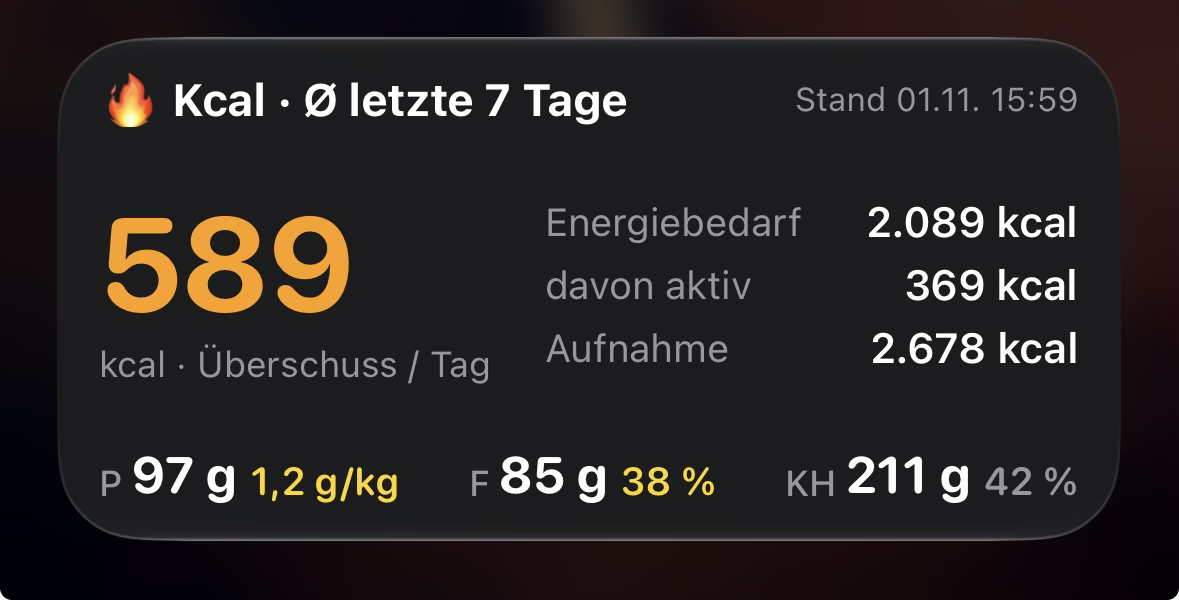
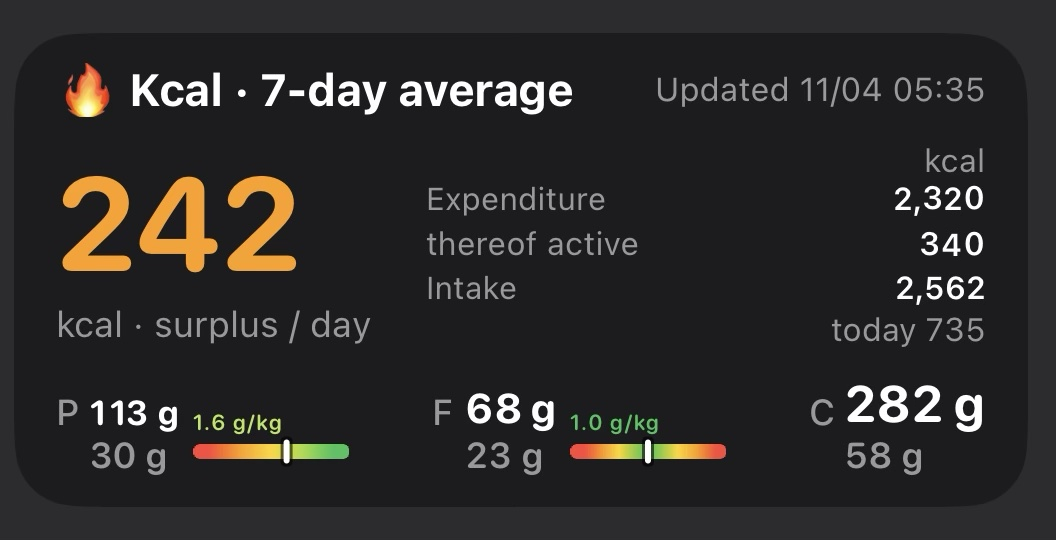
Rate fat in g/kg and add color scales
- Fat is rated in g per kg body weight instead of % of calories
- Small color scale with a marker below the protein and fat ratings
- Carbs share removed; "kcal" shown once above the right column
- Large widget: fat target as g/kg
- README and screenshot updated (example values)

Claude-Session: https://claude.ai/code/session_01He5uGvp4X4Twe2GPciLC5W

diff --git a/Kcal-Widget.js b/Kcal-Widget.js
@@ -3,7 +3,8 @@
 //
 // Shows the 7-day averages of calorie expenditure, calorie intake,
 // deficit/surplus and macronutrients from Apple Health, plus today's totals
-// (intake and macros) in gray.
+// (intake and macros) in gray. Protein and fat are rated in g per kg body
+// weight, each with a small color scale and a marker.
 //
 // Scriptable cannot access Apple Health, so an Apple Shortcut reads the data
 // and saves it as "kcal.json" in iCloud Drive/Scriptable. This script reads
@@ -33,7 +34,7 @@ const REFRESH_MIN = 15;           // requested widget update interval (iOS decid
 
 // ---------- Body weight ----------
 const WEIGHT_KG = null;           // fallback if the shortcut does not provide a weight, e.g. 80
-const TARGET_WEIGHT_KG = null;    // optional: base protein on target weight (useful with significant overweight)
+const TARGET_WEIGHT_KG = null;    // optional: base protein and fat on target weight (useful with significant overweight)
 
 // ---------- Rating levels (goal: lose fat, build muscle) ----------
 // Format: [upper limit (exclusive), color] – ascending
@@ -47,15 +48,22 @@ const TARGET_WEIGHT_KG = null;    // optional: base protein on target weight (us
 const LEVELS_PROTEIN = [
   [0.8, "red"], [1.2, "orange"], [1.6, "yellow"], [2.0, "lightGreen"], [Infinity, "darkGreen"],
 ];
-// Fat in % of calories eaten (reference range 20–35 %)
-//   < 15 red · 15–20 orange · 20–30 darkGreen · 30–35 lightGreen
-//   35–40 yellow · 40–45 orange · ≥ 45 red
+// Fat in g per kg body weight
+//   The lower limits are well founded (~0.5–0.6 g/kg minimum for hormones and
+//   fat-soluble vitamins). There is no fixed upper limit – too much fat mainly
+//   crowds out protein and carbs, so the upper levels are a rule of thumb.
+//   < 0.5 red · 0.5–0.6 orange · 0.6–0.8 yellow · 0.8–1.2 darkGreen
+//   1.2–1.4 yellow · 1.4–1.6 orange · ≥ 1.6 red
 const LEVELS_FAT = [
-  [15, "red"], [20, "orange"], [30, "darkGreen"], [35, "lightGreen"],
-  [40, "yellow"], [45, "orange"], [Infinity, "red"],
+  [0.5, "red"], [0.6, "orange"], [0.8, "yellow"], [1.2, "darkGreen"],
+  [1.4, "yellow"], [1.6, "orange"], [Infinity, "red"],
 ];
-// Carbs: not rated (they fill the remaining calories) → gray
+// Carbs: not rated (they fill the remaining calories)
 // Today's totals: not rated (a day in progress would almost always look "too low") → gray
+
+// Range of the color scales below the ratings (values outside sit at the edge)
+const SCALE_PROTEIN = { min: 0.4, max: 2.4, levels: LEVELS_PROTEIN };
+const SCALE_FAT = { min: 0.2, max: 1.8, levels: LEVELS_FAT };
 
 // ---------- Texts ----------
 const TEXTS = {
@@ -112,6 +120,10 @@ const C = {
   red: new Color("#ff453a"),
   green: new Color("#30d158"),
 };
+// Scale colors (images cannot switch between light and dark mode)
+const SCALE_COLORS = {
+  red: "#ff453a", orange: "#ff9f0a", yellow: "#ffd60a", lightGreen: "#a8dc3c", darkGreen: "#30c45a",
+};
 
 // ---------- Load data ----------
 // In the app (e.g. after tapping the widget) the file is fetched from iCloud;
@@ -141,6 +153,9 @@ function num(...keys) {
 }
 function fmt(n) {
   return n == null ? "–" : Math.round(n).toLocaleString(T.locale);
+}
+function fmt1(n) {
+  return n.toLocaleString(T.locale, { minimumFractionDigits: 1, maximumFractionDigits: 1 });
 }
 
 const d = {
@@ -176,39 +191,28 @@ for (const [k, keys] of Object.entries(TODAY_KEYS)) {
 }
 
 // ---------- Rate macros ----------
-function level(value, levels) {
-  for (const [limit, color] of levels) if (value < limit) return C[color];
-  return C.sub;
+function levelName(value, levels) {
+  for (const [limit, color] of levels) if (value < limit) return color;
+  return null;
 }
 const refWeight = TARGET_WEIGHT_KG ?? d.weight;
-// Calories from macros (protein/carbs 4 kcal/g, fat 9 kcal/g); fallback: intake
-const macroKcal = (d.protein ?? 0) * 4 + (d.fat ?? 0) * 9 + (d.carbs ?? 0) * 4;
-const kcalBase = macroKcal > 0 ? macroKcal : d.intake;
 
-// info[k] = { text, color } – shown next to the grams
-const info = { protein: null, fat: null, carbs: null };
-if (d.protein != null && refWeight) {
-  const gkg = Math.round((d.protein / refWeight) * 10) / 10; // color matches the displayed number
-  info.protein = {
-    text: gkg.toLocaleString(T.locale, { minimumFractionDigits: 1, maximumFractionDigits: 1 }) + " g/kg",
-    color: level(gkg, LEVELS_PROTEIN),
-  };
+// info[k] = { text, color, value, scale } – shown next to the grams, scale below
+function rate(grams, scale) {
+  if (grams == null || !refWeight) return null;
+  const gkg = Math.round((grams / refWeight) * 10) / 10; // color matches the displayed number
+  const name = levelName(gkg, scale.levels);
+  return { text: fmt1(gkg) + " g/kg", color: name ? C[name] : C.sub, value: gkg, scale };
 }
-if (d.fat != null && kcalBase) {
-  const p = Math.round((d.fat * 9 / kcalBase) * 100);
-  info.fat = { text: p + " %", color: level(p, LEVELS_FAT) };
-}
-if (d.carbs != null && kcalBase) {
-  const p = Math.round((d.carbs * 4 / kcalBase) * 100);
-  info.carbs = { text: p + " %", color: C.sub };
-}
+const info = {
+  protein: rate(d.protein, SCALE_PROTEIN),
+  fat: rate(d.fat, SCALE_FAT),
+};
 
 // Targets for the large widget
 const target = {
   proteinMin: refWeight ? refWeight * 1.6 : null,
   proteinOpt: refWeight ? refWeight * 2.0 : null,
-  fatMin: kcalBase ? kcalBase * 0.20 / 9 : null,
-  fatMax: kcalBase ? kcalBase * 0.30 / 9 : null,
 };
 
 const isDeficit = d.deficit == null || d.deficit >= 0;
@@ -225,6 +229,76 @@ if (updatedAt) {
   isStale = (Date.now() - updatedAt.getTime()) / 36e5 > STALE_HOURS;
 }
 
+// ---------- Color scale ----------
+function hexToRgb(hex) {
+  const n = parseInt(hex.replace("#", ""), 16);
+  return [(n >> 16) & 255, (n >> 8) & 255, n & 255];
+}
+function rgbToColor([r, g, b]) {
+  return new Color("#" + [r, g, b].map((x) => Math.round(x).toString(16).padStart(2, "0")).join(""));
+}
+// One color stop in the middle of each level (clipped to the scale range),
+// so the color below the marker matches the color of the rating text.
+function scaleStops(s) {
+  const stops = [];
+  let lo = -Infinity;
+  for (const [limit, name] of s.levels) {
+    const a = Math.max(lo, s.min), b = Math.min(limit, s.max);
+    if (b > a) stops.push([(a + b) / 2, hexToRgb(SCALE_COLORS[name])]);
+    lo = limit;
+  }
+  return stops;
+}
+function colorAt(v, stops) {
+  if (v <= stops[0][0]) return stops[0][1];
+  for (let i = 1; i < stops.length; i++) {
+    const [p1, c1] = stops[i];
+    if (v <= p1) {
+      const [p0, c0] = stops[i - 1];
+      const t = (v - p0) / (p1 - p0);
+      return c0.map((x, j) => x + (c1[j] - x) * t);
+    }
+  }
+  return stops[stops.length - 1][1];
+}
+// Gradient bar with rounded ends and a small marker at the value
+function scaleImage(value, s, width, height) {
+  const ctx = new DrawContext();
+  ctx.size = new Size(width, height);
+  ctx.opaque = false;
+  ctx.respectScreenScale = true;
+
+  const stops = scaleStops(s);
+  const cy = 5.5;          // vertical center of bar and marker (bar sits close below the text)
+  const barH = 5, r = barH / 2, step = 0.5;
+  for (let x = 0; x < width; x += step) {
+    const xc = x + step / 2;
+    // round off both ends
+    let dy = 0;
+    const edge = Math.min(xc, width - xc);
+    if (edge < r) dy = r - Math.sqrt(r * r - (r - edge) * (r - edge));
+    const v = s.min + (xc / width) * (s.max - s.min);
+    ctx.setFillColor(rgbToColor(colorAt(v, stops)));
+    ctx.fillRect(new Rect(x, cy - r + dy, step + 0.3, barH - 2 * dy));
+  }
+
+  // marker: white with a dark outline, visible on every color
+  const pos = Math.min(Math.max((value - s.min) / (s.max - s.min), 0), 1);
+  const mx = Math.min(Math.max(pos * width, 2), width - 2);
+  const outer = new Path();
+  outer.addRoundedRect(new Rect(mx - 2, cy - 5, 4, 10), 1.5, 1.5);
+  ctx.addPath(outer);
+  ctx.setFillColor(new Color("#000000", 0.6));
+  ctx.fillPath();
+  const inner = new Path();
+  inner.addRoundedRect(new Rect(mx - 1, cy - 4, 2, 8), 1, 1);
+  ctx.addPath(inner);
+  ctx.setFillColor(Color.white());
+  ctx.fillPath();
+
+  return ctx.getImage();
+}
+
 // ---------- Helpers ----------
 function txt(stack, s, font, color, lines = 1) {
   const t = stack.addText(s);
@@ -234,13 +308,13 @@ function txt(stack, s, font, color, lines = 1) {
   t.minimumScaleFactor = 0.5;
   return t;
 }
-function row(stack, label, value, unit, big) {
+function row(stack, label, value, big) {
   const r = stack.addStack();
   r.centerAlignContent();
   txt(r, label, Font.systemFont(big ? 15 : 13), C.sub);
   r.addSpacer(8);
   r.addSpacer();
-  txt(r, `${value} ${unit}`, Font.semiboldSystemFont(big ? 16 : 14), C.text);
+  txt(r, value, Font.semiboldSystemFont(big ? 16 : 14), C.text);
 }
 function header(w, small, big) {
   const h = w.addStack();
@@ -251,29 +325,34 @@ function header(w, small, big) {
     txt(h, updatedText, Font.systemFont(big ? 12 : 11), isStale ? C.orange : C.sub);
   }
 }
-// Macros: protein left, fat center, carbs right – grams plus colored rating.
-// With today's totals, a gray second line shows today's grams directly below
-// the average grams (no label, no rating).
+// Macros: protein left, fat center, carbs right – grams plus colored g/kg rating.
+// Second line: today's grams in gray below the average grams (if provided)
+// and a color scale below each rating.
 function macros(stack, big) {
   const m = stack.addStack();
   m.bottomAlignContent();
-  const todayFont = Font.semiboldRoundedSystemFont(big ? 14 : 12);
+  const secondFont = Font.semiboldRoundedSystemFont(big ? 14 : 12);
+  const secondH = big ? 17 : 14;  // about the line height of secondFont
+  const scaleW = big ? 62 : 52;   // about as wide as the rating text
 
-  // One column per part. Label and rating columns get an invisible second line
-  // of the same height, so all first lines stay on one baseline.
+  // One column per part with two lines. Columns without a visible second line
+  // get an invisible one of the same height, so all first lines stay on one baseline.
   function col(cell, s, font, color, below) {
     const c = cell.addStack();
     c.layoutVertically();
     txt(c, s, font, color);
-    if (hasToday) {
-      txt(c, below ?? "0", todayFont, below == null ? Color.clear() : C.sub);
+    if (below && below.scale) {
+      const img = c.addImage(scaleImage(below.value, below.scale, scaleW, secondH));
+      img.imageSize = new Size(scaleW, secondH);
+    } else {
+      txt(c, below ?? "0", secondFont, below == null ? Color.clear() : C.sub);
     }
   }
 
   const items = [
     ["P", d.protein, info.protein, today.protein],
     ["F", d.fat, info.fat, today.fat],
-    [T.carbs, d.carbs, info.carbs, today.carbs],
+    [T.carbs, d.carbs, null, today.carbs],
   ];
   items.forEach(([label, g, p, t], i) => {
     if (i > 0) m.addSpacer();
@@ -281,10 +360,10 @@ function macros(stack, big) {
     cell.bottomAlignContent();
     col(cell, label, Font.mediumSystemFont(big ? 14 : 12), C.sub, null);
     cell.addSpacer(3);
-    col(cell, `${fmt(g)} g`, Font.boldRoundedSystemFont(big ? 20 : 17), C.text, `${fmt(t)} g`);
+    col(cell, `${fmt(g)} g`, Font.boldRoundedSystemFont(big ? 20 : 17), C.text, hasToday ? `${fmt(t)} g` : null);
     if (p != null) {
       cell.addSpacer(4);
-      col(cell, p.text, Font.semiboldRoundedSystemFont(big ? 15 : 13), p.color, null);
+      col(cell, p.text, Font.semiboldRoundedSystemFont(big ? 15 : 13), p.color, p);
     }
   });
 }
@@ -340,21 +419,25 @@ if (family === "accessoryRectangular" || family === "accessoryInline") {
 
     main.addSpacer(18);
 
-    // right column fills the space up to the right edge
+    // right column fills the space up to the right edge; the unit "kcal"
+    // is shown once, right-aligned above the first number
     const gap = big || !hasToday ? 4 : 2;
     const right = main.addStack();
     right.layoutVertically();
-    row(right, T.expenditure, fmt(d.expenditure), "kcal", big);
+    const unit = right.addStack();
+    unit.addSpacer();
+    txt(unit, "kcal", Font.systemFont(big ? 13 : 11), C.sub);
+    row(right, T.expenditure, fmt(d.expenditure), big);
     right.addSpacer(gap);
-    row(right, T.active, fmt(d.active), "kcal", big);
+    row(right, T.active, fmt(d.active), big);
     right.addSpacer(gap);
-    row(right, T.intake, fmt(d.intake), "kcal", big);
+    row(right, T.intake, fmt(d.intake), big);
     if (hasToday) {
       // today's intake, right-aligned below the average intake
       right.addSpacer(1);
       const r = right.addStack();
       r.addSpacer();
-      txt(r, `${T.today} ${fmt(today.intake)} kcal`, Font.systemFont(big ? 13 : 11), C.sub);
+      txt(r, `${T.today} ${fmt(today.intake)}`, Font.systemFont(big ? 13 : 11), C.sub);
     }
 
     w.addSpacer();
@@ -363,7 +446,7 @@ if (family === "accessoryRectangular" || family === "accessoryInline") {
     if (big) {
       // large widget: also show target ranges
       w.addSpacer(10);
-      txt(w, `${T.target}: P ${fmt(target.proteinMin)}–${fmt(target.proteinOpt)}+ g · F ${fmt(target.fatMin)}–${fmt(target.fatMax)} g`,
+      txt(w, `${T.target}: P ${fmt(target.proteinMin)}–${fmt(target.proteinOpt)}+ g · F ${fmt1(0.8)}–${fmt1(1.2)} g/kg`,
           Font.mediumSystemFont(14), C.sub);
       if (refWeight == null) {
         txt(w, T.noWeight, Font.systemFont(12), C.orange, 2);
